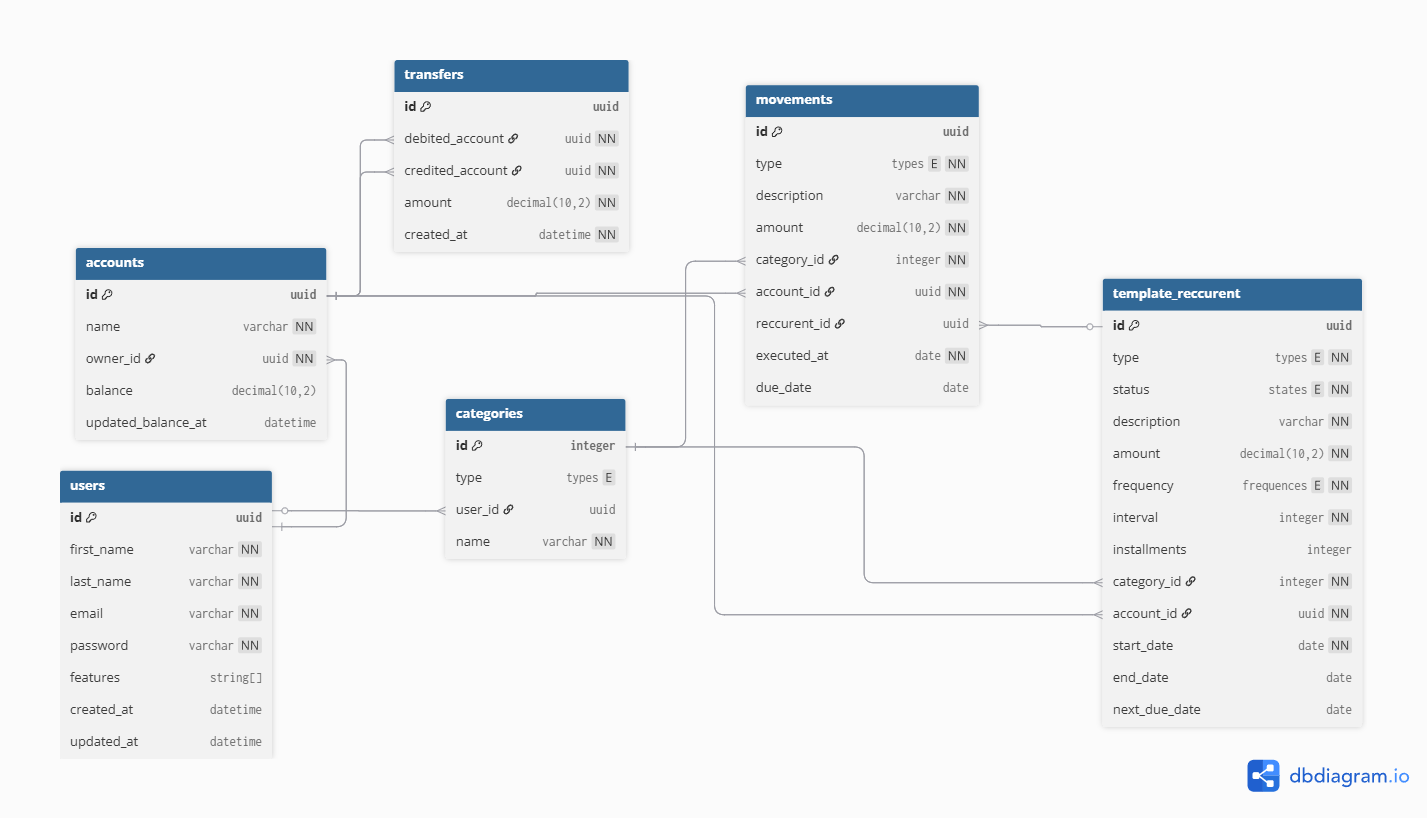
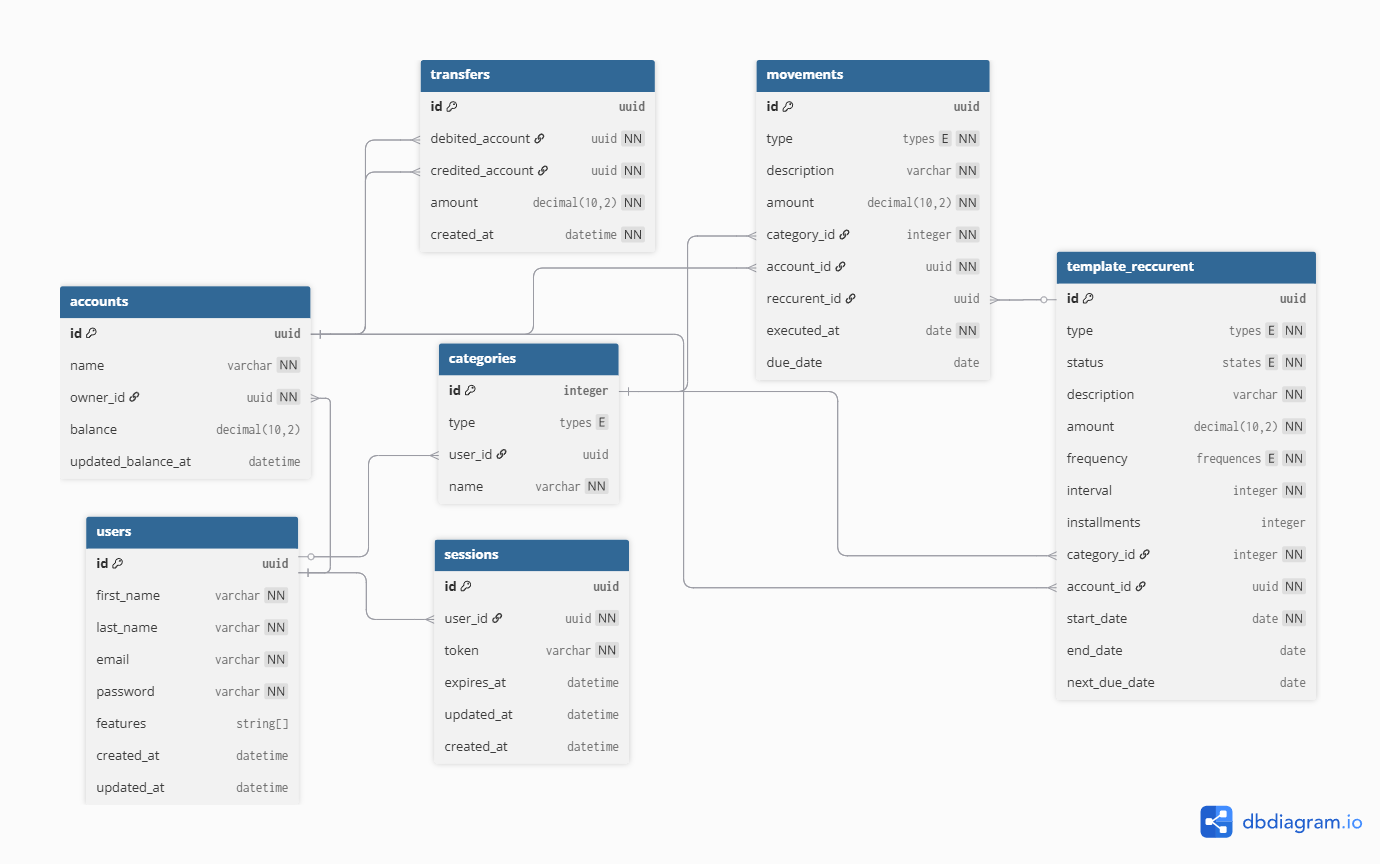
chore: mantendo README.md atualizado

diff --git a/infra/scripts/wait-for-database.js b/infra/scripts/wait-for-database.js
@@ -11,7 +11,7 @@ function checkPostgres() {
             return;
         }
 
-        console.log(">{ ONLINE }")
+        console.log("> { ONLINE }")
     }
 }
 

diff --git a/README.md b/README.md
@@ -32,19 +32,21 @@ Entao acesse [http://localhost:3000](http://localhost:3000)
 
 pnpm \<comand>
 
-- dev: Inicia o Banco de Dados local, roda as migrações e inicia a aplicação
+- dev - Inicia o Banco de Dados local, roda as migrações e inicia a aplicação
 - dev:web - Inicia somente a aplicação web
-- test: Inicia o Banco de Dados Local e roda a bateria de testes
-- test:watch: Roda os testes para desenvolvimento assistido,
-- build: Gera o código para a Produção,
-- lint: Verifica a estilização do código,
-- service:db:up: Sobe o Banco de dados em container docker,
-- service:db:down: Para e apaga o banco de dados,
-- db:generate: Analisa as modificações no schema e gera as migrações,
-- db:migrate: Aplica as migrações - Exige service:db:up,
-- db:studio: Cria uma interface web para visualizar o Banco de dados - Exige service:db:up
-- db:seed: Popula o Banco com dados - Exige service:db:up
-- wait-for-database: Script que espera até que o banco de dados esteja Online
+- test - Inicia o Banco de Dados Local e roda a bateria de testes
+- test:watch - Roda os testes para desenvolvimento assistido,
+- build - Gera o código para a Produção,
+- lint - Verifica a estilização do código,
+- service:db:up - Sobe o Banco de dados em container docker,
+- service:db:down - Para e apaga o banco de dados,
+- db:generate - Analisa as modificações no schema e gera as migrações,
+- db:migrate - Aplica as migrações - Exige service:db:up,
+- db:studio - Cria uma interface web para interagir com o Banco de dados - Exige service:db:up
+- db:seed - Popula o Banco com dados - Exige service:db:up
+- db:view - Gera uma vizualização do banco de dados
+- db:push - Envia diretamente ao banco de dados todas os schemas
+- wait-for-database - Script que espera até que o banco de dados esteja Online
 
 ## Esquema do Banco de Dados
 
@@ -53,10 +55,12 @@ pnpm \<comand>
 ### Tabelas
 
 - users - Dedicada a registrar todos os usuarios cadastrados no sistema.
+- sessions - Dedicada a regitrar todas as sessões ativas e inativas
 - in progress...
 
 ## Regras de Negócios
 
+- Um usuario poderá ter múltiplas contas, mas cada conta terá apenas um dono
 - in progress...
 
 ## Tecnologias
@@ -64,6 +68,7 @@ pnpm \<comand>
 - NextJs
 - Drizzle ORM
 - Docker
+- Zod
 
 ## Caracteristicas
 